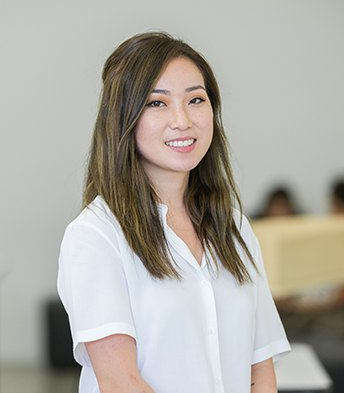
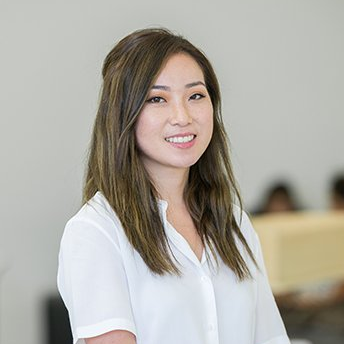
optimized the image sizes and fixed minor issues on index.html

diff --git a/public/stylesheets/style.css b/public/stylesheets/style.css
@@ -29,7 +29,7 @@ select {
 }
 
 #headerOne {
-    background: url('../images/header.jpg') no-repeat top center fixed;
+    background: url('../images/header1.jpg') no-repeat top center fixed;
     margin-top: 100px;
     -webkit-background-size: cover;
     -moz-background-size: cover;
@@ -157,7 +157,8 @@ section {
 }
 
 .founder_image {
-  width: 80%;
+  min-width: 80%;
+  max-width: 80%;
   margin: 0 auto;
   display: block;
   border-radius: 100%;
@@ -300,14 +301,17 @@ section {
 
 #titleone {
   text-align: left;
+  margin-left: 0;
 }
 
 #titletwo {
   text-align: right;
+  margin-right: 26px;
 }
 
 #titlethree {
   text-align: left;
+  margin-left: 0;
 }
 
 #middle {

diff --git a/public/javascript/main.js b/public/javascript/main.js
@@ -1,5 +1,3 @@
-console.log("Main js loaded");
-
 // Checks to see when the triple handshake has been completed and auto closes the window once its complete.
 var googleWindow;
     checkConnect = setInterval(function() {
@@ -8,6 +6,7 @@ var googleWindow;
             clearInterval(checkConnect);
             googleWindow.close();
             window.location = '/users/:id'
+            // window.location = `/users/${req.user._id}`
           }
           else {
             clearInterval(checkConnect);

diff --git a/public/javascript/products.js b/public/javascript/products.js
@@ -150,7 +150,6 @@ $menu.children('li').each(function(){
 $(document).ready(function(){
 	render = _.template($('#product-template').html());
 	$.get('/retailers', function(product) {
-			console.log(product)
 			if(product.error){
 				console.log(product.error)
 			} else {

diff --git a/README.md b/README.md
@@ -5,7 +5,7 @@
 This web app was designed to help aggregate a consumers favorite clothes from over 200 of their favorite retailers.  Using a custom API and filter features we were able to show the end user outfits that they were likely to purchase within a 1 week sprint.
 
 ##Technologies
-<img style="width:700px;display:block;margin:0 auto;" src="http://i1308.photobucket.com/albums/s612/williampruden/proj3_zpsez7vkmvh.jpg">
+<img src="http://i1308.photobucket.com/albums/s612/williampruden/proj3_zpsez7vkmvh.jpg">
 
 | Technologies  | APIs   	| Deployment  |
 | ------------- |:-------	| -----------|
